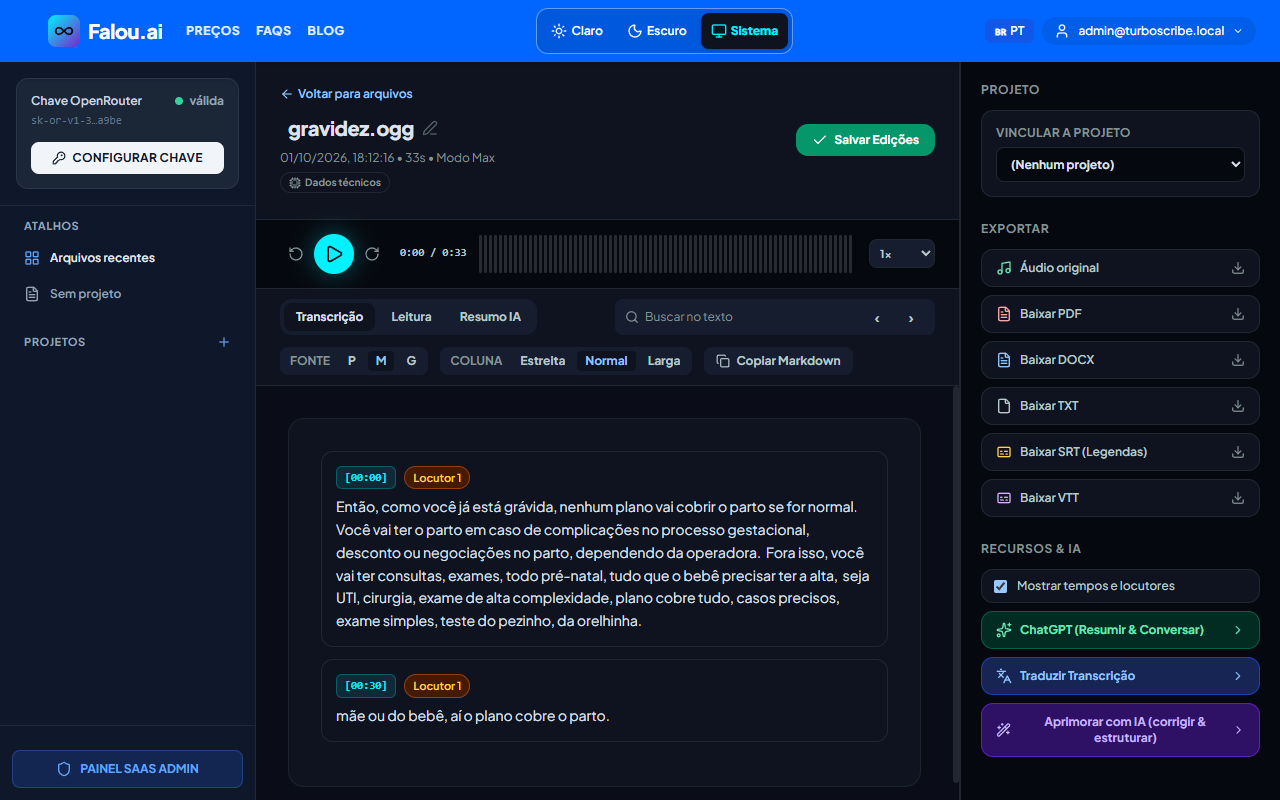
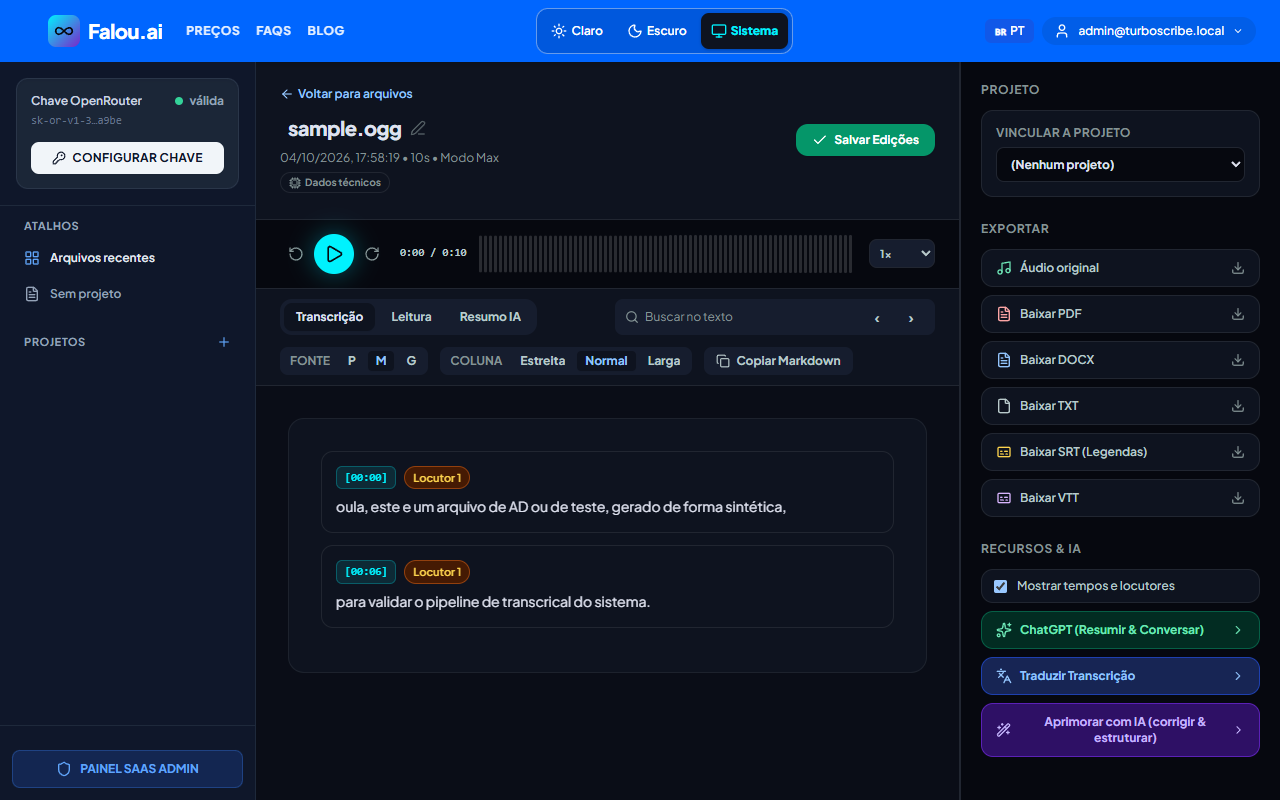
feat(karaoke): tempos reais por palavra do Whisper (timestamp_granularities[]=word), coluna segments.words_json, pipeline desloca palavras por chunk, frontend usa tempos reais com fallback ponderado

diff --git a/services/pipeline.js b/services/pipeline.js
@@ -142,7 +142,12 @@ async function rescueChunk(task, chunk, firstResult) {
       });
       model = r.model_used || model;
       for (const s of r.segments || []) {
-        merged.push({ speaker: s.speaker, start: s.start + p.offset, end: s.end + p.offset, text: s.text });
+        merged.push({
+          speaker: s.speaker, start: s.start + p.offset, end: s.end + p.offset, text: s.text,
+          words: Array.isArray(s.words) && s.words.length
+            ? s.words.map(w => ({ w: w.w, s: w.s + p.offset, e: w.e + p.offset }))
+            : undefined
+        });
       }
     }
     const before = textDensity(firstResult.segments || [], chunk.duration_sec);
@@ -166,7 +171,9 @@ async function transcribeOneChunk(task, chunk) {
       durationHint: chunk.duration_sec
     });
     let segments = (result.segments || []).map(s => ({
-      speaker: s.speaker, start: s.start, end: s.end, text: s.text
+      speaker: s.speaker, start: s.start, end: s.end, text: s.text,
+      // karaoke: tempos reais por palavra seguem com o chunk (assemble soma o offset)
+      words: Array.isArray(s.words) && s.words.length ? s.words : undefined
     }));
 
     // Guarda de qualidade: pouco texto num bloco longo com som = colapso do modelo?
@@ -265,7 +272,16 @@ async function assemble(task) {
     if (c.status === 'done') {
       const segs = JSON.parse(c.segments_json || '[]');
       for (const s of segs) {
-        segments.push({ speaker: s.speaker, start: s.start + c.offset_sec, end: s.end + c.offset_sec, text: s.text });
+        segments.push({
+          speaker: s.speaker,
+          start: s.start + c.offset_sec,
+          end: s.end + c.offset_sec,
+          text: s.text,
+          // karaoke: palavras com tempo real também deslocam com o chunk
+          words: Array.isArray(s.words) && s.words.length
+            ? s.words.map(w => ({ w: w.w, s: w.s + c.offset_sec, e: w.e + c.offset_sec }))
+            : undefined
+        });
       }
       if (c.model_used) modelUsed = c.model_used;
     } else {
@@ -325,8 +341,9 @@ async function processJob(task) {
   await runAsync(`DELETE FROM segments WHERE transcription_id = ?`, [task.id]);
   for (const seg of segments) {
     await runAsync(
-      `INSERT INTO segments (id, transcription_id, speaker, start_time, end_time, text) VALUES (?, ?, ?, ?, ?, ?)`,
-      [uuidv4(), task.id, seg.speaker || 'Locutor 1', seg.start, seg.end, seg.text]
+      `INSERT INTO segments (id, transcription_id, speaker, start_time, end_time, text, words_json) VALUES (?, ?, ?, ?, ?, ?, ?)`,
+      [uuidv4(), task.id, seg.speaker || 'Locutor 1', seg.start, seg.end, seg.text,
+        Array.isArray(seg.words) && seg.words.length ? JSON.stringify(seg.words) : null]
     );
   }
 

diff --git a/services/openrouter.js b/services/openrouter.js
@@ -227,6 +227,11 @@ async function transcribeAudioFile(filePath, language = 'pt', modeOrModelId = 'o
       formData.append('model', model);
       if (!autoDetect) formData.append('language', lang);
       formData.append('response_format', 'verbose_json');
+      // Karaoke (precisão real): pede também timestamp por PALAVRA — mesmo
+      // preço por minuto da API, sem custo extra. Sem suporte do modelo, a
+      // resposta simplesmente não vem com `words` e o frontend interpola.
+      formData.append('timestamp_granularities[]', 'segment');
+      formData.append('timestamp_granularities[]', 'word');
       // temperature 0 + prompt reduzem drasticamente alucinações do Whisper em silêncio/ruído
       formData.append('temperature', '0');
       if (promptText) formData.append('prompt', promptText);
@@ -254,6 +259,26 @@ async function transcribeAudioFile(filePath, language = 'pt', modeOrModelId = 'o
           end: seg.end !== undefined ? parseFloat(seg.end) : (idx + 1) * 5,
           text: seg.text ? seg.text.trim() : ''
         }));
+
+        // Karaoke: associa as palavras com tempo real a seus segmentos (cada
+        // palavra vai a exatamente um segmento, na ordem). Se o modelo não
+        // devolveu `words`, os segmentos ficam sem `words` e o frontend cai
+        // na interpolação.
+        const rawWords = Array.isArray(data.words) ? data.words : [];
+        if (rawWords.length && segments.length) {
+          let wi = 0;
+          for (const seg of segments) {
+            const ws = [];
+            while (wi < rawWords.length && (rawWords[wi].start || 0) < seg.end) {
+              const rw = rawWords[wi++];
+              const wStart = parseFloat(rw.start) || 0;
+              if (wStart >= seg.start - 0.05) {
+                ws.push({ w: String(rw.word || '').trim(), s: wStart, e: parseFloat(rw.end) || wStart });
+              }
+            }
+            if (ws.length) seg.words = ws;
+          }
+        }
 
         if (segments.length === 0 && data.text) {
           segments.push({

diff --git a/app.js b/app.js
@@ -2002,14 +2002,37 @@ function resetKaraoke() {
 
 function buildKaraokeHtml(group) {
   return group.map(seg => {
+    // Tempos reais por palavra (Whisper timestamp_granularities[]=word) quando
+    // existem; sem eles, interpolação ponderada pelo tamanho da palavra
+    // (palavras longas falam mais devagar) dentro do segmento.
+    let timed = null;
+    try {
+      const raw = typeof seg.words_json === 'string' ? JSON.parse(seg.words_json || 'null') : seg.words;
+      if (Array.isArray(raw) && raw.length) timed = raw;
+    } catch (_) { /* fallback abaixo */ }
+    if (timed) {
+      return timed.map(w => {
+        const ws = parseFloat(w.s) || 0;
+        const we = parseFloat(w.e) || ws;
+        const clean = String(w.w || '').trim();
+        if (!clean) return '';
+        return `<span class="cc-word" data-ws="${ws.toFixed(3)}" data-we="${we.toFixed(3)}">${escapeHtml(clean)}</span>`;
+      }).filter(Boolean).join(' ');
+    }
+
     const words = (seg.text || '').trim().split(/\s+/).filter(Boolean);
     if (!words.length) return '';
     const start = parseFloat(seg.start_time) || 0;
     const end = parseFloat(seg.end_time) || 0;
     const dur = Math.max(0.2, end - start);
+    // Peso = caracteres + 2 (mínimo para monossílabos não virarem estalos)
+    const weights = words.map(w => w.length + 2);
+    const totalW = weights.reduce((a, b) => a + b, 0);
+    let acc = 0;
     return words.map((w, i) => {
-      const ws = start + dur * (i / words.length);
-      const we = start + dur * ((i + 1) / words.length);
+      const ws = start + dur * (acc / totalW);
+      acc += weights[i];
+      const we = start + dur * (acc / totalW);
       return `<span class="cc-word" data-ws="${ws.toFixed(3)}" data-we="${we.toFixed(3)}">${escapeHtml(w)}</span>`;
     }).join(' ');
   }).join(' ');

diff --git a/db.js b/db.js
@@ -311,9 +311,19 @@ async function initDatabaseSqlite() {
         start_time REAL NOT NULL,
         end_time REAL NOT NULL,
         text TEXT NOT NULL,
+        words_json TEXT,
         FOREIGN KEY(transcription_id) REFERENCES transcriptions(id) ON DELETE CASCADE
       )
     `);
+
+    // Karaoke: coluna words_json em bancos SQLite criados antes da feature
+    try {
+      const segCols = await allAsync(`PRAGMA table_info(segments)`);
+      if (segCols && segCols.length && !segCols.some(c => c.name === 'words_json')) {
+        console.log('Adicionando coluna "words_json" na tabela "segments"...');
+        await runAsync(`ALTER TABLE segments ADD COLUMN words_json TEXT`);
+      }
+    } catch (_) { /* driver postgres: schema já completo no PG_DDL */ }
 
     // 7. Blocos de audio de uma transcricao longa: cada bloco e a unidade de
     //    trabalho persistida, o que permite paralelismo, retry e retomada.

diff --git a/scripts/migrate-sqlite-to-postgres.js b/scripts/migrate-sqlite-to-postgres.js
@@ -94,7 +94,8 @@ CREATE TABLE IF NOT EXISTS segments (
   speaker TEXT,
   start_time DOUBLE PRECISION NOT NULL,
   end_time DOUBLE PRECISION NOT NULL,
-  text TEXT NOT NULL
+  text TEXT NOT NULL,
+  words_json TEXT
 );
 CREATE TABLE IF NOT EXISTS transcription_chunks (
   id TEXT PRIMARY KEY,
